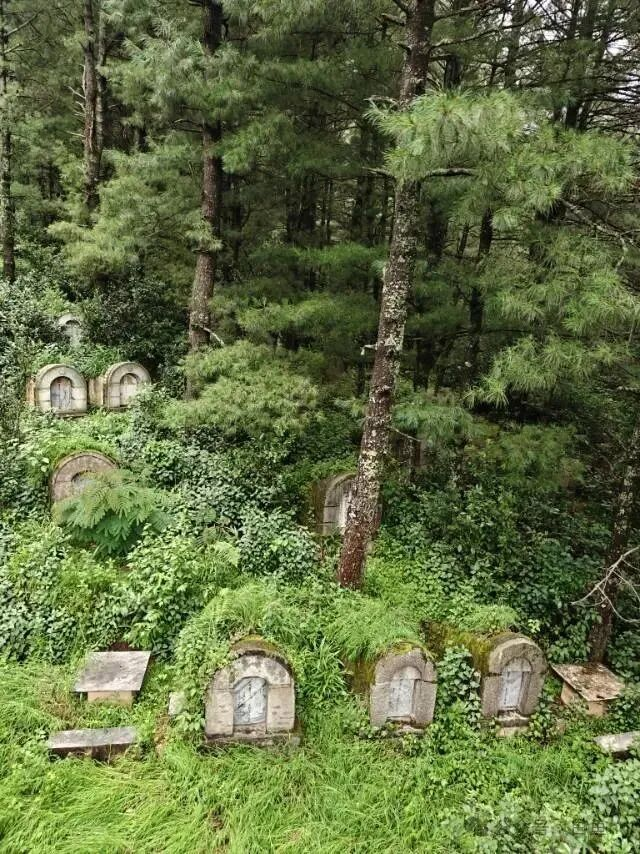
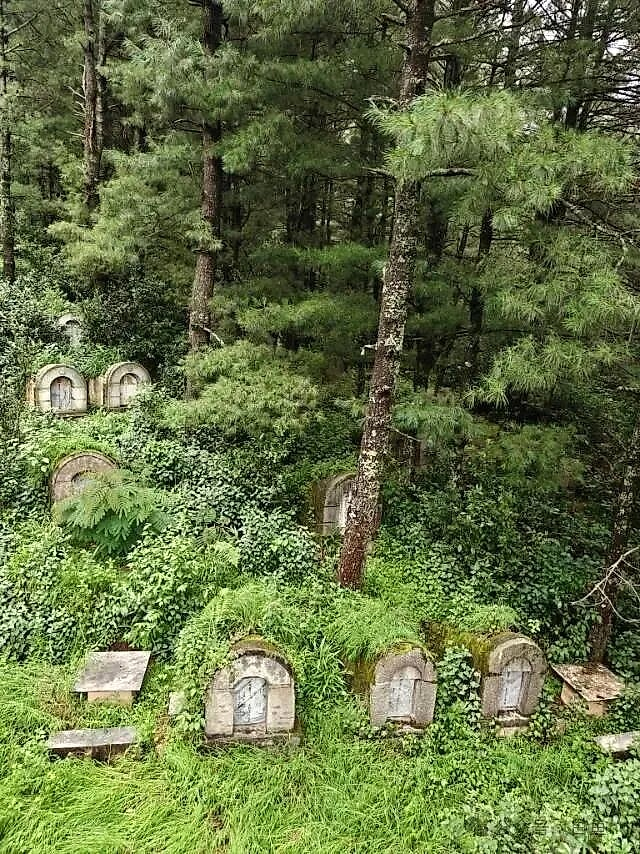
Polish Baiyun essay presentation

diff --git a/src/styles/custom.css b/src/styles/custom.css
@@ -204,6 +204,54 @@ mark {
         "Noto Sans SC", "Microsoft YaHei", sans-serif !important;
 }
 
+.main-frame:has(.baiyun-meta) .right-sidebar-container {
+    display: none;
+}
+
+.main-frame:has(.baiyun-meta) .main-pane {
+    width: 100%;
+}
+
+main:has(.baiyun-meta) {
+    background:
+        linear-gradient(
+            180deg,
+            color-mix(in srgb, #1f2937 40%, transparent),
+            color-mix(in srgb, #0f172a 18%, transparent)
+        );
+}
+
+main:has(.baiyun-meta) .content-panel {
+    border-bottom: 0;
+}
+
+main:has(.baiyun-meta) .content-panel > .sl-container {
+    max-width: 50rem;
+    margin-inline: auto;
+}
+
+main:has(.baiyun-meta) h1 {
+    color: color-mix(in srgb, var(--sl-color-white) 94%, #d5eadf 6%);
+    font-family:
+        "LXGW WenKai", "STKaiti", "KaiTi", "Kaiti SC", "Noto Serif SC",
+        "Source Han Serif SC", "Microsoft YaHei", sans-serif;
+    font-size: clamp(2.6rem, 4vw, 4rem);
+    font-weight: 800;
+    letter-spacing: 0.04em;
+    text-shadow: 0 10px 36px color-mix(in srgb, #000000 32%, transparent);
+}
+
+main:has(.baiyun-meta) .content-panel:has(.baiyun-meta) > .sl-container {
+    max-width: 54rem;
+    margin: 0 auto 4rem;
+    padding: clamp(1.5rem, 3vw, 3rem);
+    border: 1px solid color-mix(in srgb, var(--sl-color-gray-5) 32%, transparent);
+    border-radius: 10px;
+    background: color-mix(in srgb, var(--sl-color-bg) 78%, transparent);
+    box-shadow: 0 22px 70px color-mix(in srgb, #000000 18%, transparent);
+    backdrop-filter: blur(10px);
+}
+
 .baiyun-meta {
     display: flex;
     flex-wrap: wrap;